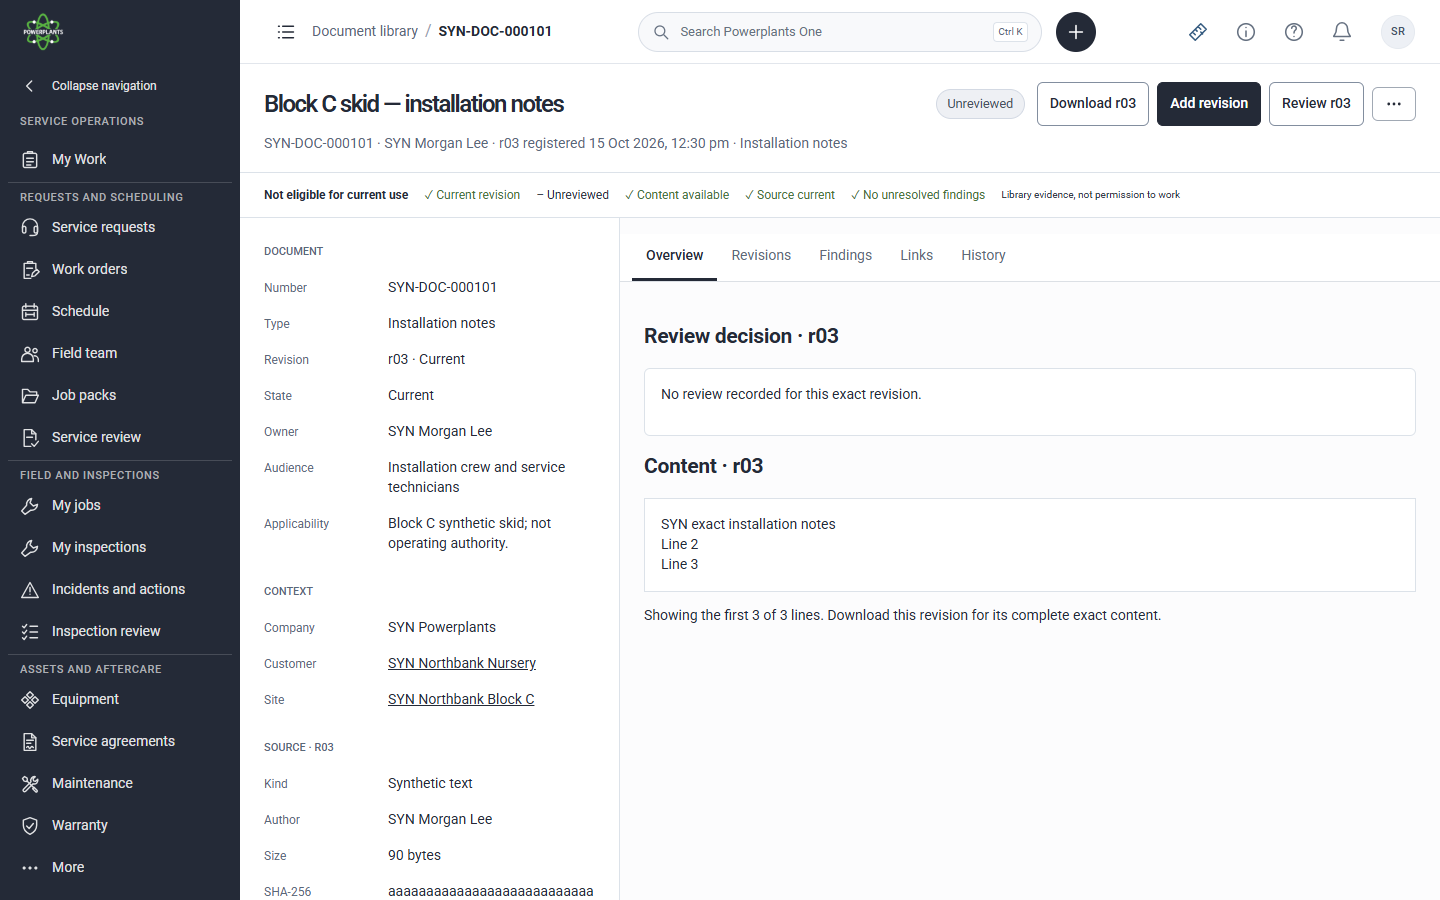
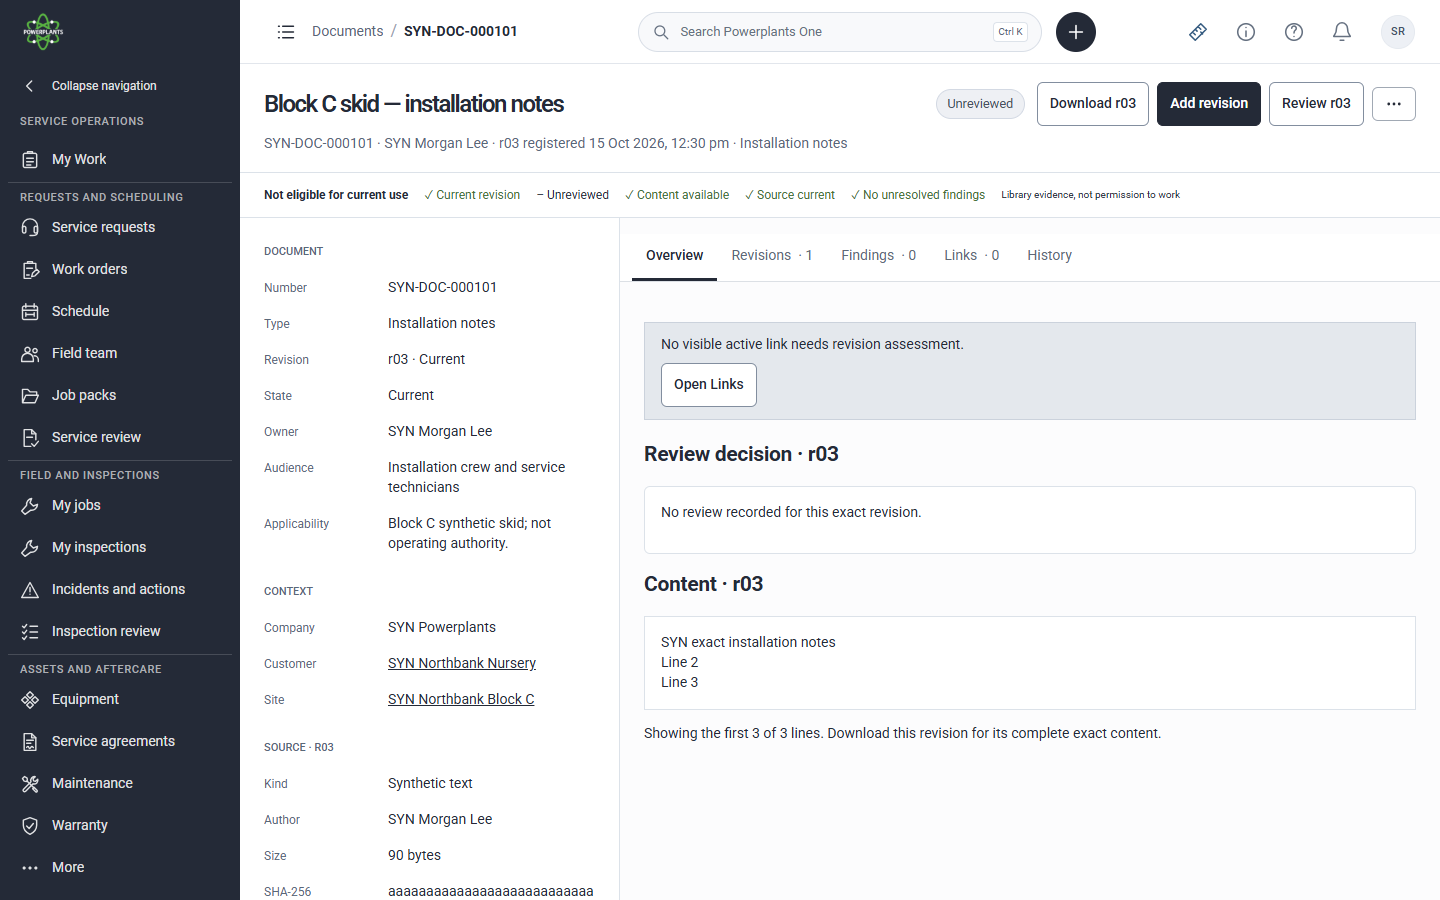
Record library review-fix validation and updated captures

diff --git a/docs/testing/evidence/document-library/workspace/README.md b/docs/testing/evidence/document-library/workspace/README.md
@@ -27,18 +27,17 @@ The application screenshots below use synthetic response fixtures in the real ap
 - Unknown command results retain the same body and operation ID for retry and block editing/closing. Dirty-navigation protection is reused. Browser termination is not persistent draft storage.
 - The phone record hides the department tab bar while its record actions occupy the bottom edge. Context follows the main view and the tab list scrolls horizontally.
 
-## Validation
+## Validation after Claude review
 
-The [execution summary](execution.json) records the tested application source and separates these results:
+The [execution summary](execution.json) records application source `2ae0b19796f886dba0a827db1aea050aeb941678`. The [earlier execution](execution-before-review.json) retains the prior full-unit/main-control results; it is not a claim that those suites were repeated on this head.
 
-- Compiled build and its TypeScript check passed on application source `f78fc093`. Full lint and final focused lint passed. Studio, foundation, naming, status-source and browser-runtime checks passed.
-- Compiled fixture browser: **5/5 passed**, including 1440/1024/390/320 px, unchanged uncertain retry, denied refresh, independent finding acceptance, exact historical link handover, unavailable content, expanding paging, snapshot Escape/focus return, permitted Previous/Next and strict registration/revision payloads. The first compiled attempt began before the server was ready; the remaining selector ambiguity was corrected before the final complete run. Final test-only selector and evidence edits do not change compiled application code.
-- Native compiled HTTP: **2/2 passed**, including the new sorted/mine register, permitted choices and historical revisions endpoints, existing lifecycle commands, refusal and exact download headers.
-- Native database: **13/14 passed** in the full library run. DK-B03 exposed an extra capability gate in the preserved register read, where the existing contract returns an empty permitted list. That case passed on unmodified `origin/main` at `6e939bf0`, then passed on the corrected branch. The other thirteen cases include both populated upgrades, native PDF sources, unchanged-operation recovery, sorted cursor scope and permitted choices. This is a full run plus a focused correction proof, not a claimed clean fourteen-case rerun.
-- Full bounded units: **1,280/1,285 passed**. Four failures reproduced on an unmodified-main archive: CPQ package execution budget, two private document-store path cases and the private-recovery path case. The remaining CPQ rule-worker case passed both the main control and a serial retry on this branch. No unrelated test or guard was weakened.
+- Final compiled build and its TypeScript check passed. Focused lint, studio, foundation, status sources and 25 focused library/navigation units passed.
+- Final compiled fixture browser: **6/6 passed**, at 1440/1024/390/320 px. This covers unchanged uncertain retries, denied refresh, independent finding acceptance, exact historical links, unavailable content, growing-window refresh and focus, snapshot Escape/return, Previous/Next, strict registration/revision payloads, Find-field Enter prevention, paged/off-page labels, retained filter focus and selected record tabs, and earlier-link assessment.
+- Native compiled HTTP: **2/2 passed**, including registration-purpose choices, read-only owner refusal, sorted register, exact revisions/download headers and native lifecycle commands.
+- Native database: **11/14 passed** in the full run. DK-B02 and DK-B03 timed out during migration setup; DK-B10 still expected random UUID order. All three cases passed on the unchanged main archive and then passed on this branch after the chronology assertion was corrected. This is a full run plus three focused reruns, not a clean full-suite result. The two new UI-read database cases passed in the full run, including chronological/signed/legacy continuation, owner refusal, registration scopes and selected labels.
 
-Not run locally: every other module's database/HTTP/browser suites (no migration, grant or shared control implementation changes), a live end-to-end browser journey through all native commands, manual screen-reader testing or browser 200% zoom. Exact-head CI and independent visual/functional review remain pending. Keyboard evidence is the snapshot Escape/focus-return journey plus native/shared controls; it is not an exhaustive accessibility audit.
+The unchanged control is `6e939bf0`; `src`, `scripts` and `db` have no differences from current main `1402c87b`. The final screenshots were compared with the retained accepted captures. Developer comparison identified and corrected clipped toolbar labels. Shared fallback icons are used; the browser blocks Font Awesome network requests. This does not constitute independent visual acceptance.
 
-The isolated PostgreSQL 16.15 cluster uses only `ppo_synthetic_test` on loopback port 55476. The first full suite stopped at reset with insufficient lock slots; its cluster was restarted with `max_locks_per_transaction=1024`. The unrestricted unit attempt was stopped under excessive concurrency and is not a completed result. Node 24.22.2, npm 11.19.0, Playwright 1.64.1 and reviewed Chrome 156.0.8078.80 were used; the repository runtime reference uses Node 24.21.0. No migration, capability, grant, dependency, operational data or external integration is introduced.
+Not run: all other module database/HTTP/browser suites, a complete native browser command journey, a manual screen-reader audit or 200% browser zoom. The full unit suite was not repeated after these scoped review fixes; its previous baseline failures remain in the earlier execution record. GitHub CI was still queued/pending and fresh Claude review is required for the pushed head.
 
-Independent review, visual acceptance, broader real-browser workflow/assistive-technology review and business approval remain separate.
+The isolated PostgreSQL 16.15 cluster uses only `ppo_synthetic_test` on port 55476; the compiled application uses port 3476. No migration, capability, grant, dependency, operational data or external integration was introduced. Independent review, owner acceptance and deployment remain pending.

diff --git a/docs/status/2026-10-31-document-library-review-fixes.md b/docs/status/2026-10-31-document-library-review-fixes.md
@@ -1,0 +1,8 @@
+---
+title: Document library Claude review corrections
+date: 2026-10-31
+---
+
+Codex corrected all twelve numbered findings (thirteen inline threads) on PR #706: registration-authorised choices, Find-field Enter, earlier-link assessment, copied revision details, retained paging/filter/tab focus, paged labels, valid navigation, accepted labels/chips/counts/footer and phone metadata, human-readable event/source labels, actual registration chronology and registration-purpose context choices. Source commit: `2ae0b197`. Commands and receiving-module authority remain unchanged.
+
+[Execution evidence](../testing/evidence/document-library/workspace/README.md) separates final build/typecheck, focused lint and 25 units, six fixture browser tests, two native HTTP tests, studio/foundation/status and native database proof. The full database run passed eleven cases; two migration timeouts and an old order assertion were followed by three passing unchanged-main controls and three passing corrected-branch reruns. No clean fourteen-case rerun is claimed. Fresh exact-head Claude review and queued/pending CI still prevent merge. Visual review, owner acceptance and deployment remain pending. Templates DK-06 continues separately in PR #704.
